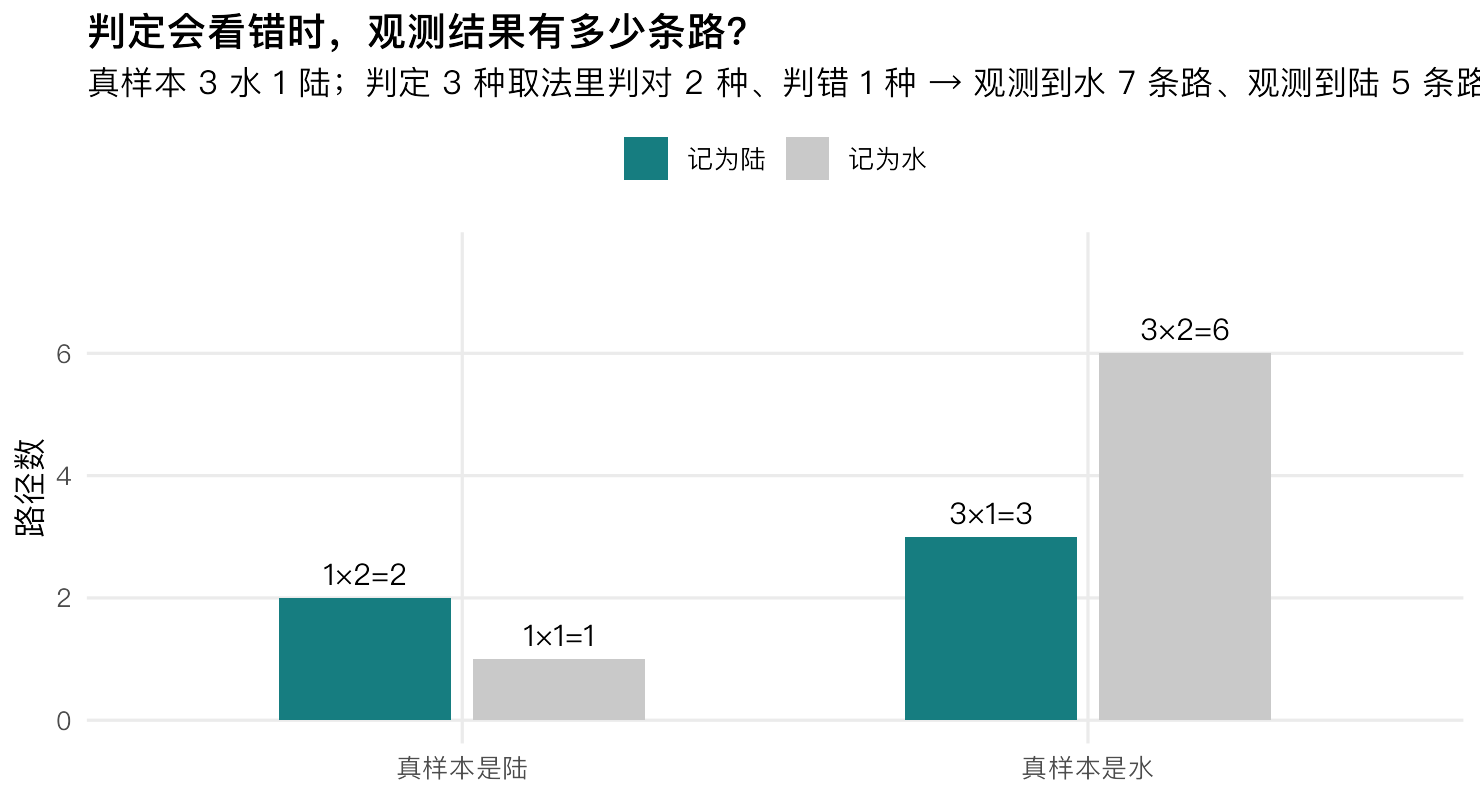
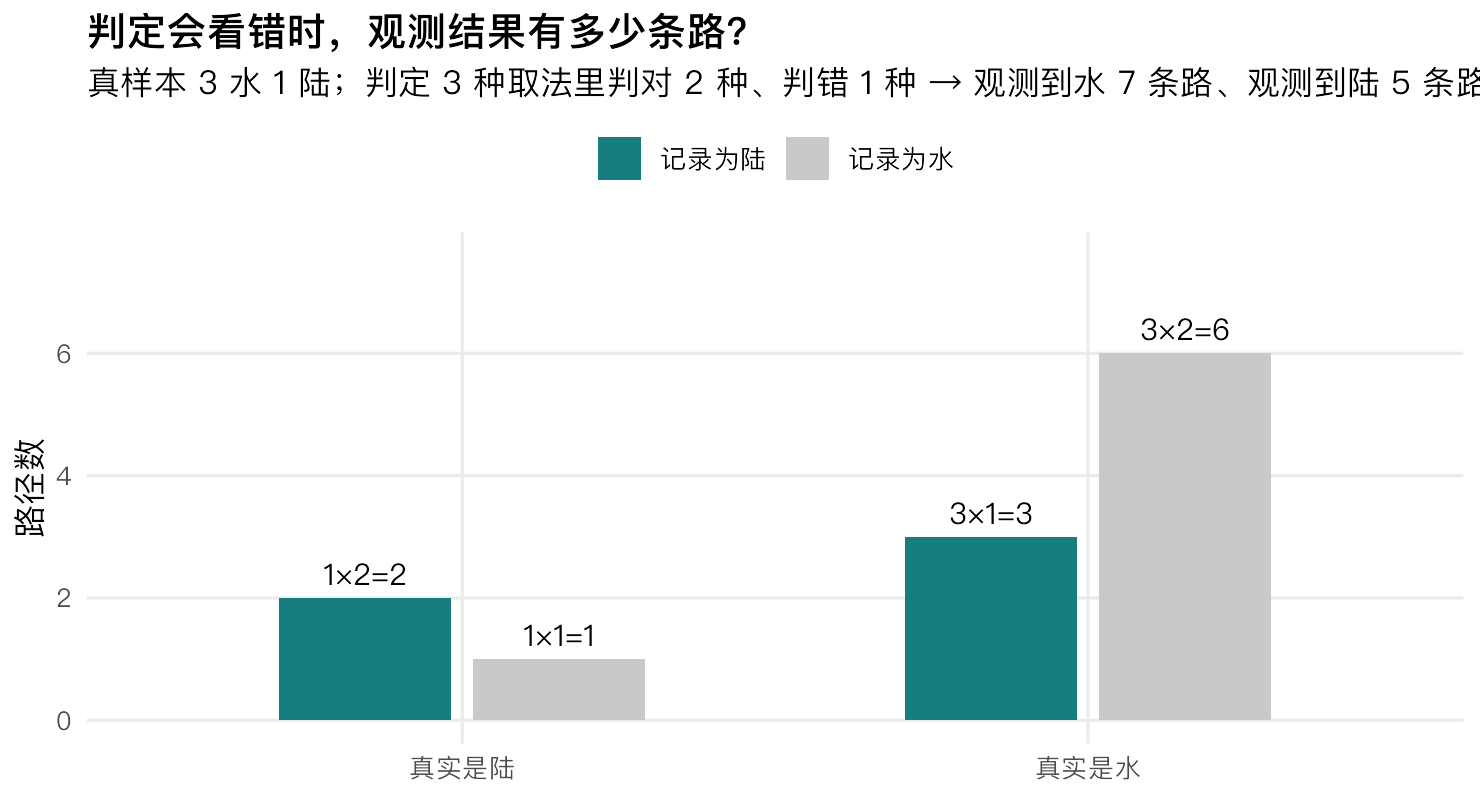
Revise Rethinking article 02 after Codex review: sequential-update fix, prediction comparison, misclassification reversal

diff --git a/rethinking/article02_counting_paths/代码/篇02_数路径.py b/rethinking/article02_counting_paths/代码/篇02_数路径.py
@@ -121,9 +121,13 @@ def logB(x, y):
 
 
 pred_next = a / (a + b)
-pred_rows = [[k, round(math.exp(math.log(math.comb(2, k)) + logB(a + k, b + 2 - k) - logB(a, b)), 6)]
+p_hat = pred_next          # 对照：把后验均值当成固定 p（会丢掉后验宽度）
+pred_rows = [[k,
+              round(math.exp(math.log(math.comb(2, k)) + logB(a + k, b + 2 - k) - logB(a, b)), 6),
+              round(math.comb(2, k) * p_hat ** k * (1 - p_hat) ** (2 - k), 6)]
              for k in range(3)]
-write_csv(os.path.join(RES, "04_预测分布_python.csv"), ["未来两次里的水数", "概率"], pred_rows)
+write_csv(os.path.join(RES, "04_预测分布_python.csv"),
+          ["未来两次里的水数", "概率（整条后验）", "概率（固定均值）"], pred_rows)
 print("下一次取到水的概率 =", round(pred_next, 6), pred_rows)
 
 # ------------------------------------------------------------
@@ -132,14 +136,14 @@ print("下一次取到水的概率 =", round(pred_next, 6), pred_rows)
 true_water, true_land = 3, 1
 # 练习 2：判定取法改成 10 种（判对 9、判错 1）→ judge_correct, judge_wrong = 9, 1
 judge_correct, judge_wrong = 2, 1
-rows5 = [["真样本是水", "记为水", true_water, judge_correct, true_water * judge_correct],
-         ["真样本是水", "记为陆", true_water, judge_wrong,   true_water * judge_wrong],
-         ["真样本是陆", "记为水", true_land,  judge_wrong,   true_land * judge_wrong],
-         ["真样本是陆", "记为陆", true_land,  judge_correct, true_land * judge_correct]]
+rows5 = [["真实是水", "记录为水", true_water, judge_correct, true_water * judge_correct],
+         ["真实是水", "记录为陆", true_water, judge_wrong,   true_water * judge_wrong],
+         ["真实是陆", "记录为水", true_land,  judge_wrong,   true_land * judge_wrong],
+         ["真实是陆", "记录为陆", true_land,  judge_correct, true_land * judge_correct]]
 write_csv(os.path.join(RES, "05_误分类路径计数_python.csv"),
           ["来源", "判定结果", "真样本数", "每次判定的取法", "路径数"], rows5)
-ways_obs_water = sum(r[4] for r in rows5 if r[1] == "记为水")
-ways_obs_land = sum(r[4] for r in rows5 if r[1] == "记为陆")
+ways_obs_water = sum(r[4] for r in rows5 if r[1] == "记录为水")
+ways_obs_land = sum(r[4] for r in rows5 if r[1] == "记录为陆")
 print(f"观测到水 = 6 + 1 = {ways_obs_water}；观测到陆 = 3 + 2 = {ways_obs_land}；合计 = {ways_obs_water + ways_obs_land}")
 
 # ============================================================

diff --git a/rethinking/article02_counting_paths/代码/篇02_数路径.m b/rethinking/article02_counting_paths/代码/篇02_数路径.m
@@ -85,13 +85,15 @@ fprintf('解析后验 Beta(%d,%d): %s\n', a, b, strjoin(cellfun(@numFmt, num2cel
 predNext = a / (a + b);
 logB = @(x, y) gammaln(x) + gammaln(y) - gammaln(x + y);
 pred2 = zeros(3, 1);
+pred2fix = zeros(3, 1);            % 对照：把后验均值当成固定 p
 for k = 0:2
     pred2(k+1) = exp(log(nchoosek(2, k)) + logB(a + k, b + 2 - k) - logB(a, b));
+    pred2fix(k+1) = nchoosek(2, k) * predNext^k * (1 - predNext)^(2 - k);
 end
 fid = fopen(fullfile(RES, '04_预测分布_matlab.csv'), 'w', 'n', 'UTF-8');
-fprintf(fid, '"未来两次里的水数","概率"\n');
+fprintf(fid, '"未来两次里的水数","概率（整条后验）","概率（固定均值）"\n');
 for k = 0:2
-    fprintf(fid, '%d,%s\n', k, numFmt(round(pred2(k+1), 6)));
+    fprintf(fid, '%d,%s,%s\n', k, numFmt(round(pred2(k+1), 6)), numFmt(round(pred2fix(k+1), 6)));
 end
 fclose(fid);
 fprintf('下一次取到水的概率 = %s，未来两次：%s\n', numFmt(round(predNext, 6)), ...
@@ -105,10 +107,10 @@ trueWater = 3; trueLand = 1;
 judge_correct = 2; judge_wrong = 1;
 fid = fopen(fullfile(RES, '05_误分类路径计数_matlab.csv'), 'w', 'n', 'UTF-8');
 fprintf(fid, '"来源","判定结果","真样本数","每次判定的取法","路径数"\n');
-fprintf(fid, '"真样本是水","记为水",%d,%d,%d\n', trueWater, judge_correct, trueWater * judge_correct);
-fprintf(fid, '"真样本是水","记为陆",%d,%d,%d\n', trueWater, judge_wrong,   trueWater * judge_wrong);
-fprintf(fid, '"真样本是陆","记为水",%d,%d,%d\n', trueLand,  judge_wrong,   trueLand * judge_wrong);
-fprintf(fid, '"真样本是陆","记为陆",%d,%d,%d\n', trueLand,  judge_correct, trueLand * judge_correct);
+fprintf(fid, '"真实是水","记录为水",%d,%d,%d\n', trueWater, judge_correct, trueWater * judge_correct);
+fprintf(fid, '"真实是水","记录为陆",%d,%d,%d\n', trueWater, judge_wrong,   trueWater * judge_wrong);
+fprintf(fid, '"真实是陆","记录为水",%d,%d,%d\n', trueLand,  judge_wrong,   trueLand * judge_wrong);
+fprintf(fid, '"真实是陆","记录为陆",%d,%d,%d\n', trueLand,  judge_correct, trueLand * judge_correct);
 fclose(fid);
 waysObsWater = trueWater * judge_correct + trueLand * judge_wrong;
 waysObsLand  = trueWater * judge_wrong + trueLand * judge_correct;

diff --git a/rethinking/article02_counting_paths/数路径_公众号稿.md b/rethinking/article02_counting_paths/数路径_公众号稿.md
@@ -1,20 +1,20 @@
-# 凭什么拿 9 次取点去说水面比例？——数路径，就是贝叶斯推断
+# 凭什么拿 9 次取点去说水面比例？——从一个四面地球仪数起
 
 > 明哥的微生物世界 · Statistical Rethinking 精读 02
 >
-> 摘要：不背公式，用一个四面地球仪，把上一篇那句「相乘再归一化」数出来。
+> 摘要：用四面地球仪把后验亲手数出来，再看"眼睛会看错"这件事怎样改变结论。
 
 大家好，我是明哥。
 
-上一篇最后留了一句话：贝叶斯推断可以看成"数路径"。这一篇就把它数出来——不写公式，只做一个动作：**数一数有多少条路，能走到你看到的那个结果。**
+在地球仪上随机取 9 个点，6 个落在水上。水面比例就是三分之二吗？只有 9 次，能知道多少，又还有多不确定？
 
-问题从最小的玩具开始。手上有一个四面的地球仪，其中可能有 0、1、2、3 或 4 面是水。连着取三次，记录到"水、陆、水"。就凭这三次，能对"这个球有几面是水"说点什么吗？
-
-能。而且不用背公式。
+上一篇留下了"数路径"三个字。今天先把球缩成四个面，用"水、陆、水"三次记录，把后验亲手数出来。等允许眼睛看错，刚被我们排除的那些候选，还会重新回来。
 
 ## 一、一个四面地球仪，为什么能算出后验？
 
-先换一个问法。别问"水面比例是 0.75 的概率有多大"，改问：**如果水面比例真是 0.75，有多少条路能走出我看到的这个结果？**
+先约定模型：**每次取点相互独立，四个面被取到的机会相同，水陆不会认错，而且看数据之前五个候选各占同样的权重。**
+
+现在换个问法。别问"水面比例是 0.75 的概率有多大"，改问：**如果水面比例真是 0.75，有多少条路能走出我看到的这个结果？**
 
 四面的球，水面占 3 面、陆面占 1 面。取到水，有 3 种取法；取到陆，有 1 种取法。三次观测是水、陆、水，路径数就是这三个数乘起来：
 
@@ -30,143 +30,151 @@
 | 0.75 | 3 | 1 | 3 × 1 × 3 = 9 |
 | 1 | 4 | 0 | 4 × 0 × 4 = 0 |
 
-五个候选加起来是 20 条路。于是**每个候选的后验概率，就是它自己的路径数除以 20**：0、0.15、0.40、0.45、0。
+五个候选加起来是 20 条路。**这个 20，是"五个候选下与观测相容的路径数之和"**（每个候选完整的三次取点路径其实都是 64 条，这一点下一节会说清）。在前面那几条约定之下，后验概率就是各自的路径数除以 20：0、0.15、0.40、0.45、0。
 
 ![图1｜分岔路径计数](文章配图/01-分岔路径计数.png)
 
-*图1｜左：每个候选比例下，三次观测各自有几种取法，乘起来就是路径数；右：路径数除以 20 得到后验。原来有 5 个候选，比例 0 和 1 的路径数是 0 条。用配套脚本 篇02_数路径.R 生成。*
+*图1｜左：每个候选比例下，三次观测各自有几种取法，乘起来就是路径数；右：路径数除以 20 得到后验。前提是每次独立取点、四面等可能、水陆不会认错、五个候选先验等权。*
 
-有三件事值得停下来看一眼。
+两个候选的后验是 0。**在不会误判的模型里**，全水的球不可能记录出"陆"，全陆的球不可能记录出"水"——它们没有一条路能走到这次的观测。这句话先记住，第六节会回来找它。
 
-**第一，"数路径"不需要任何术语。** 它就是乘法，而且是整数乘法。
+## 二、为什么数完路径，还要乘先验、再归一化？
 
-**第二，比例 0 和 1 的路径数是 0。** 这不是公式把它们判了死刑，是数出来它们走不到：全水的球不可能给出"陆"，全陆的球不可能给出"水"。
+上一篇给过一个比喻：每个候选比例拿一张"权重票"，先验决定它在看数据之前有多少票，似然决定它对这次观测有多相容。
 
-**第三，20 这个总数很关键。** 它把"路径数"变成了"后验概率"——分母是所有候选的路径总和。这一步叫归一化，上一篇讲过的那个动作，在这里变成了"除以 20"。
+这一节把两件事对上：
 
-## 二、为什么「数路径」和「相乘再归一化」是同一件事？
+- **先验**给候选一个起始权重。这一篇用平坦先验，相当于五个候选一开始一样重。
+- **似然**告诉我们：在这个候选成立时，出现所见数据的概率有多大。**等可能的路径可以直接数；不等可能的路径，就要按概率加权。**
 
-上一篇给过一个比喻：每个候选比例拿一张"权重票"，先验决定它在看数据之前有多少票，似然决定它对这次观测有多相容，两者相乘，再除以总和。
-
-把这个比喻和"数路径"对起来看，就是两句话：
-
-- **先验，是看数据之前每个候选有多少条路。** 这一篇用平坦先验，相当于一开始给每个候选同样多的路。
-- **数据，是这些路里有多少条能走到你看到的结果。** 这里就是"水陆水"这个序列。
-
-两者相乘，得到的就是第一节那张表里的数字；除以总和，得到后验。写下来还是上一篇那条式子：
+第一次数出来的"9"是整数计数，公式里的"先验 × 似然"是权重——两者在本例中**只差一个对五个候选都相同的常数**：每个候选都有 64 条等可能的三次取点路径（4 × 4 × 4），五个候选的先验权重又相同。这两个共同因子在归一化时会被约掉，所以最后要比较的确实就是与观测相容的路径数。写下来还是上一篇那条式子：
 
 $$
 候选 i 的后验权重 = \frac{先验权重_i \times P(观测 \mid p_i)}{\sum_j 先验权重_j \times P(观测 \mid p_j)}
 $$
 
-所以那句"相乘再归一化"，说白了就是**数路径、再除以总路数**。凡是能写成"路径数"的问题，都可以这么算——包括后面几节几乎看不出在"数路径"的那种。
+**能数条数的时候就数条数，不能数的时候就按概率加权**——这就是"相乘再归一化"在计数语言里的样子。
 
-## 三、观测变多，路径怎么筛？
+## 三、没有候选被淘汰，后验还会变吗？
 
-第一节的例子只有三个观测。多来几个观测，路径会怎么变？
+前面三个观测，两次是水、一次是陆。把观测顺序调一下：先看"水"，再看"陆"，这时候五个候选的路径数是 0、3、4、3、0。
 
-办法很直接：**每来一个观测，就把与它不一致的路径全部删掉。**
+再看到第三个观测"水"，路径数变成 0、3、8、9、0。
 
-回看图 1 左边那三列。一开始五个候选比例都"在场"，各有自己的路。看到第一个观测是"水"：水面数为 0 的那个候选，一条路都走不出来，删掉。看见第二个观测是"陆"：水面数为 4 的那个候选也走不出来（它没有陆面），删掉。第三个观测又是"水"，剩下的三个候选各自按自己的水面数再乘一次。
+注意这里发生的事：**中间那三个候选一条路都没被淘汰，可是它们的相对支持已经大不一样了**——从 3、4、3 变成 3、8、9，比例是 0.5 的那个候选从领先变成了落后。
 
-最后剩下的路径数就是 0、3、8、9、0——0 的两条路被剪干净了。
+所以数据做的不止"把不可能的路划掉"。它既能让某些候选直接归零，也能**在仍然可能的候选之间重新分配权重**。上一节说"数完路径还要乘先验再归一化"，归一化这一步就是重新分配。
 
-麦氏给这个图起名叫 **the garden of forking data（分岔数据的花园）**：所有可能的世界在开头就分好了岔，数据的作用是**不断剪掉走不通的那些岔路**，最后剩下的路有多宽，就是每个候选的比例。
+麦氏给这张图起的名字是 **the garden of forking data（分岔数据的花园）**：候选在开头就分好了岔，数据不断剪掉走不通的岔路，同时调整剩下那些路的宽窄。
 
-这个说法比"更新信念"具体得多：**你不是在改变想法，你是在把不可能的路划掉。**
+严格说，剩下的**路径数占总数的比例**，才是各候选的后验概率——别把它和"候选的水面比例"混起来。
 
 ## 四、比例能取连续值，怎么数？
 
 上面的玩具只有五个候选比例，真问题里水面比例是 0 到 1 之间的连续值。路数没法一个整数一个整数地数了，怎么办？
 
-把"数路径"换成"算每个候选比例的可能性"，就得到上一篇那张 20 点网格。教材第 2 章的四行代码正是这件事：
+办法是：**在网格上算出每个候选的似然与后验权重**，也就是上一篇那张 20 点网格。按教材第 2 章的网格近似方法，可以写成下面四行：
 
 ```
 p_grid     <- seq(0, 1, length.out = 20)   # 20 个候选比例
 prior      <- rep(1, 20)                   # 每个候选先给同样的权重
-likelihood <- dbinom(6, size = 9, prob = p_grid)   # 这个候选能走出我这 9 次观测的相对可能性
+likelihood <- dbinom(6, size = 9, prob = p_grid)   # 这个候选成立时出现 9 次里 6 次水的概率
 posterior  <- likelihood * prior / sum(likelihood * prior)
 ```
 
-四行，和第一节的"乘起来、再除以总数"是同一件事，只是"路径数"换成了"可能性"，除法换成了除以总和。观测仍用上一篇那组：**9 次里 6 次落在水上**。
+观测仍用开头那组：**9 次里 6 次落在水上**。
+
+这里有一个小跳步值得点一下。第一节记的是有顺序的"水、陆、水"，这四行代码只统计"6 次是水"、不管顺序。在各次独立、同一个水面比例的模型下，二项似然比某个指定序列的概率多出一个组合数；**这个组合数对所有候选都一样**，归一化时同样被约掉，所以两者的参数后验相同。
 
 ![图2｜先验、似然、后验](文章配图/02-先验似然后验.png)
 
-*图2｜横轴是 20 个候选水面比例。灰线是各候选的先验权重（平坦先验，人人一样）；红色虚线是为便于比较而归一化后的似然权重；青线是后验。平坦先验下，归一化后的似然与后验重合。用配套脚本生成。*
+*图2｜横轴是 20 个候选水面比例。灰线是各候选的先验权重（平坦先验，人人一样）；红色虚线是为便于比较而归一化后的似然权重；青线是后验。平坦先验下，归一化后的似然与后验重合。*
 
-那先验到底在干什么？换一个先验就看出来了。下面三种先验，数据完全不变：
+那先验到底在干什么？换一个先验就看出来了。**以下三个数都是同一组 20 点网格上的结果**，数据完全不变：
 
-- **平坦先验**：每个候选一视同仁 → 后验均值 0.636382，最大点 0.684211；
-- **exp(-5×|p-0.5|)**：把权重压在 0.5 附近 → 后验均值 0.586171，最大点被拉到 0.526316；
-- **p<0.5 时权重为 0**：只认 0.5 以上的比例 → 后验均值 0.681388，最大点 0.684211。
+| 先验 | 后验均值（约） | 后验最大的网格点 |
+|---|---|---|
+| 平坦先验（每个候选一样重） | 0.636 | 0.684211 |
+| exp(-5×\|p-0.5\|)（压在 0.5 附近） | 0.586 | 0.526316 |
+| p<0.5 时权重为 0（只认 0.5 以上） | 0.681 | 0.684211 |
 
 ![图3｜换先验后的后验](文章配图/03-换先验后的后验.png)
 
-*图3｜同一份观测（9 次里 6 次是水），三种先验给出的三条后验。灰色是平坦先验，青色是压在 0.5 附近的先验，红色是只认 0.5 以上的先验。用配套脚本生成。*
+*图3｜同一份观测（9 次里 6 次是水），三种先验给出的三条后验。灰：平坦先验；青：压在 0.5 附近的先验；红：只认 0.5 以上的先验。用配套脚本生成。*
 
-**先验不是作弊，它就是你动手之前对"哪些比例更有可能"的既有判断。** 它被数据拉走多远，取决于数据提供了多少条路——这也是上一篇"样本量越大、先验影响越小"那句话的来历。
+**先验是模型的一部分，用来表达已有知识、约束或暂定假设。用它不是作弊**；关键是说明依据，并检查合理的其他先验会不会改变结论。
 
-顺带一个可以核对的小结论。这一组观测的解析后验是 Beta(7, 4)：均值 0.636364、众数 0.666667、标准差 0.138866，89% 等尾区间 0.400320 到 0.845431。20 点网格给出的均值是 0.636382，与解析值只差 0.000018。**网格近似差多少是算出来的，不是估出来的**——这一点在下一篇还会用到。
+第三种先验还给出一个硬边界：它把 p<0.5 的区域权重设成 0，**那么无论来多少数据，这些候选的后验都会是 0**。数据能重新分配权重，却救不回被先验排除掉的区域。反过来，在先验没有排除数据支持的区域时，更多**独立且携带信息**的观测通常会减弱先验对后验的影响。
+
+"独立"这两个字值得在实验里多想一想。同一份样品多测几次，能帮我们了解测量波动，却不算增加了同样多的独立生物学样本；如果批次之间有差异，多设几个批次内重复和多取几个独立批次，回答的也不是同一个问题。
+
+顺带一个可以核对的结论。回到"连续参数上均匀先验、独立取点、不会误判"的二项模型，6 次水、3 次陆对应的解析后验是 Beta(7, 4)，均值 0.636364；而 20 点网格给出的均值是 0.636382，两者相差约 0.00001873。
+
+**因为有解析结果，这个误差我们才能直接核对**——但要注意，核对的只是均值。同一组网格的 89% 等尾区间下端是 0.4211，解析值是 0.400320，差约 0.0207。**均值很准，不代表 20 点网格处处都准。**
 
 ## 五、有了后验，能回答什么问题？
 
-教材第 2 章用四个"没有"总结这一章，每一条都反直觉：
+McElreath 在第 02 讲里用四句话提醒我们怎么读后验（课件第 78–81 页），每一句都比字面更窄：
 
-1. **没有最小样本量。** 3 次里 2 次落在水上，照样能得到后验，只是它更宽。
-2. **形状本身携带样本量信息。** 观测越多，后验越窄，这个宽度不用另外算。
-3. **没有一个点估计是"答案"。** 分布本身就是答案；报出一个均值，等于把形状丢掉只留一个数。
-4. **没有唯一正确的区间。** 等尾区间只是传达后验形状的一种方式（上一篇已经讨论过 89% 区间，这里不再展开）。
-
-第 3 条最需要练。做实验的人习惯要一个数——处理效应是几、菌多长了多少。贝叶斯会给一个数，但那只是分布的摘要；**真正携带信息的是整条曲线**。
+1. **没有统一的起算样本量门槛。** 本例里 3 次观测也能更新后验；但要达到研究所需的精度，仍要规划样本量。
+2. **后验形状反映数据提供的信息。** 相同模型与先验下，2 水 1 陆也有后验，只是比 6 水 3 陆的那条更分散；需要报告宽度时，仍可计算标准差或区间。
+3. **点估计只是摘要。** 均值、中位数、众数回答不同的概括需求，都不能替代整个后验。
+4. **没有适合所有任务的唯一区间。** 报区间要说明覆盖概率和构造方式（例如 89% 等尾区间）。
 
 后验还有一个直接用途：往下预测。
 
 ![图4｜从后验到预测](文章配图/04-从后验到预测.png)
 
-*图4｜左：9 次里 6 次是水时的后验 Beta(7, 4)，虚线处是均值 0.636。右：据此预测"未来两次取点里有几次是水"的概率：0 次的概率 0.152，1 次 0.424，2 次 0.424。用配套脚本生成。*
+*图4｜左：9 次里 6 次是水时的后验 Beta(7, 4)，虚线处是均值 0.636。右：据此预测"未来两次取点里有几次是水"的概率——深色用整条后验，浅色把后验均值当成固定 p。用配套脚本生成。*
 
-**下一次取到水的概率是 0.636364**（就是后验均值）；未来两次取点，出现 0、1、2 次水的概率分别是 0.151515、0.424242、0.424242。注意：这里没有挑一个"最可能的比例"去代，而是把整条后验都用上了——每种可能的比例按它自己的后验概率各出一次力。**不确定性就这样一路传到了预测里。**
+**下一次取到水的概率是 0.636364**，正好等于后验均值。这不是巧合：只预测一次时，用平均值代入就能得到同一个答案。
 
-## 六、测量本身有误差怎么办？
+但预测两次就不一样了。未来两次里出现 0、1、2 次水的概率，用整条后验算是 0.151515、0.424242、0.424242；**把后验均值当成固定 p 去算是 0.132231、0.462810、0.404959**。两次都取到水这一项，两者差了将近 0.02。
 
-最后一节说一个躲不开的问题：如果判定本身会看错呢？
+差别出在哪？要算的是"两次都是水"的概率，也就是 p² 的平均值——**不能先把 p 平均掉再平方**。整条曲线的宽度就这样一路传进了预测里，这也是为什么只报一个点估计会丢掉预测需要的不确定性信息。
 
-假设每次判定只有 3 种取法，其中 2 种判对、1 种判错——也就是 1/3 的概率把水看成陆、或把陆看成水。真实的样本是 3 个水、1 个陆。现在我想知道：观测到"水"这件事，有多少条路？
+## 六、如果水陆会认错，前面的排除还成立吗？
 
-- 真样本是水，判对了，记为水：3 个样本 × 2 种取法 = 6 条路；
-- 真样本是陆，判错了，也记为水：1 个样本 × 1 种取法 = 1 条路。
+回到第一节那两个被归零的候选：全水的球、全陆的球。它们真的不可能产生"水、陆、水"吗？
 
-合计 7 条路。同理，观测到"陆"有 3 + 2 = 5 条路；7 + 5 = 12，正好等于 4 个样本 × 3 种取法。
+取决于你怎么看测量。**把判定过程表示成三个等可能的分支：两个判对、一个判错**，也就是水被错认成陆、陆被错认成水的概率都是 1/3。这时，观测到"水"这件事就不再只有一条来路：
+
+- 先固定一个候选：四个等可能取到的面里，三个是水、一个是陆。真实为水、判对记录成水：3 个样本 × 2 种取法 = 6 条路；
+- 真实为陆、判错也记录成水：1 个样本 × 1 种取法 = 1 条路。
+
+合计 7 条路。同理，记录到"陆"有 3 + 2 = 5 条路；7 + 5 = 12，正好等于 4 个样本 × 3 种取法。**在这个候选下，记录到水的概率是 7/12。**
 
 ![图5｜误分类路径计数](文章配图/05-误分类路径计数.png)
 
-*图5｜真样本 3 水 1 陆，每次判定 3 种取法（判对 2 种、判错 1 种）。观测到"水"共 7 条路（6 + 1），观测到"陆"共 5 条路（3 + 2）。用配套脚本生成。*
+*图5｜真实 3 水 1 陆，判定分三个等可能分支（两个判对、一个判错）。记录到"水"共 7 条路（6 + 1），记录到"陆"共 5 条路（3 + 2）。用配套脚本生成。*
 
-数完路径，后验就能照旧算出来——只不过这一步要写进生成模型里，而**不是**事后再给结果打个折扣。
+数完路径，还差一步才能得到后验：**对每个候选比例都这样算出"记录到水"和"记录到陆"的概率，再按实际观测构造似然，乘先验、归一化。**（本篇只数到路径这一步，完整的误判后验留给教材。）
 
-这就是上一篇那句话的具体版本：**先写清数据是怎么来的。** 判定会出错，就把它写进"数据怎么产生"的那一层；写进去之后，"数路径"这个动作一点没变，只是路变多了。
+而这一步带来的反转，正是第一节那句话的答案：**允许误判之后，全水的球和全陆的球也能产生"水、陆、水"了。数据一点没变，关于测量过程的假设变了，结论就跟着变了。**
+
+这就是"科学先于统计"最具体的一次演示：同样的数字，能不能用、怎么解释，取决于你先把数据怎么产生的那一层写清楚。要补一句边界：这里把误判率当成已知；真实实验里，它通常需要校准数据来支持（教材对测量误差的系统讨论在第 15 章）。
 
 ## 七、动手：先数，再跑
 
 两个小实验，都写在配套脚本里，建议先在纸上数完再跑。
 
-1. **把四面地球仪换成六面。** 也就是让水面数取 0 到 6，其余不变，先自己算出三个观测（水、陆、水）各自的路径数，再跑脚本对照。（R 脚本里搜 `face_water`，Python、MATLAB 里同名。）
-2. **把误判概率从 1/3 改成 1/10。** 也就是判定有 10 种取法里判对 9 种、判错 1 种。观测到"水"的路径数会变成 3×9 + 1×1 = 28 条。算完之后想想：后验会被这种"更准的尺子"往哪边推？
+1. **把四面地球仪换成六面。** 也就是把脚本里的 `n_faces <- 4` 改成 `n_faces <- 6`（Python、MATLAB 里同名）。先自己算出三次观测（水、陆、水）各自的路径数，再跑脚本对照。
+2. **把误判率从 1/3 改成 1/10。** 也就是判定分成 10 个等可能分支、判对 9 个、判错 1 个。这时观测到"水"的路径数是 3×9 + 1×1 = 28 条。想两个问题：总路径数变成多少了？记录为水的概率（原来的 7/12，还是现在的 28/40）哪一个更接近真实的水面比例 3/4？为什么不能直接拿 7 条和 28 条比大小？
 
 ## 结尾
 
-一句可以带走的话：**别急着问概率，先数一数有多少条路能走到你看到的结果——贝叶斯推断就是这条路数的分配。**
+一句可以带走的话：**先写清数据是怎样产生的，再比较各个候选能多大概率产生它。**
 
-这里是"明哥的微生物世界"。这个系列按 McElreath 公开课 2023 版的顺序走，一讲一篇，从基础到高级，共 20 篇。下一篇讲这一章真正的"怎么做"：从后验出发把整条不确定性的链条一路推到预测，以及为什么"点估计"会把信息丢掉一大半。
+这里是"明哥的微生物世界"。这个系列按 McElreath 公开课 2023 版的顺序走，一讲一篇，从基础到高级，共 20 篇。下一篇展开怎么用后验去算预测、又怎么检查这些预测靠不靠得住。
 
 ---
 
 ### 教材与资料
 
-- McElreath, R. (2020). *Statistical Rethinking: A Bayesian Course with Examples in R and Stan*（第 2 版）. CRC Press. 本篇对应第 2 章 Small Worlds and Large Worlds（分岔数据的花园、网格近似、四边地球仪），并顺带用了第 3 章关于后验分布的少量内容。
+- McElreath, R. (2020). *Statistical Rethinking: A Bayesian Course with Examples in R and Stan*（第 2 版）. CRC Press. 本篇对应第 2 章 Small Worlds and Large Worlds；测量误差的系统讨论在第 15 章，本篇第六节只按第 02 讲的附加内容作入门。
+- 2023 年第 02 讲课件（Garden of Forking Data）：<https://speakerdeck.com/rmcelreath/statistical-rethinking-2023-lecture-02>
 - 中文版：《统计反思：用R和Stan例解贝叶斯方法》，林荟 译，机械工业出版社，2019 年。**中文版译自英文第 1 版，章节顺序与代码和第 2 版有出入，本系列按第 2 版讲。**
-- 想完全用 tidyverse 语法和 brms 复现书里的代码，看这本配套书：Kurz, A. S. (2023). *Statistical Rethinking with brms, ggplot2, and the tidyverse: Second Edition*. <https://bookdown.org/content/4857/>。
-- 运行环境：R 用 RStudio，Python 用 Spyder。
+- 想用 tidyverse 语法和 brms 走一遍书里的代码，可参考 Kurz, A. S. (2023). *Statistical Rethinking with brms, ggplot2, and the tidyverse: Second Edition*. <https://bookdown.org/content/4857/>。
 - 本篇三个语言的脚本与运行结果放在公开仓库：<https://github.com/fuyuming/statistics-classroom/tree/main/rethinking/article02_counting_paths>（仓库 ZIP：<https://github.com/fuyuming/statistics-classroom/archive/refs/heads/main.zip>）。三份输出逐位一致，对照记录见该目录的 VALIDATION.md。
 
-*配图由配套脚本生成。本篇所有数字都是确定性计算（整数路径计数、网格、解析 Beta、beta-二项预测），三个语言逐位一致，没有随机模拟。*
+*配图由配套脚本生成。本篇所有数字都是确定性计算（整数路径计数、20 点网格、解析 Beta、beta-二项预测），三个语言逐位一致，没有随机模拟。*

diff --git a/rethinking/article02_counting_paths/评审与修订记录.md b/rethinking/article02_counting_paths/评审与修订记录.md
@@ -1,0 +1,64 @@
+# 精读 02｜评审与修订记录
+
+时间：2026-10-01　稿件：`数路径_公众号稿_v1_评阅前.md`（初稿）→ **`数路径_公众号稿.md`（定稿）**
+评审：Codex（GPT-5.5，Pangolin SOCKS5，`codex exec`，原始意见 `/tmp/rethinking02_review_out.md`，30044 字节 / 540 行）
+提示词：`/tmp/rethinking02_review_prompt.txt`（四组问题：科学性／深度／吸引力／删留，要求抄原句并给可直接照改的替换）
+
+## 一、Codex 的数字，我先复算
+
+| Codex 的说法 | 我的复算 | 结论 |
+|---|---|---|
+| 网格均值与解析均值相差 0.000018725452139（写"0.000018"不准确） | 网格未舍入 0.636382361815775；解析 7/11 = 0.636363636363636；差 0.000018725452139（六位小数为 0.000019） | **成立** |
+| 均值准不代表网格处处准：区间下端 0.4211 对解析 0.40032，差约 0.0208 | 0.4210526316 − 0.4003198936 = 0.0207326 | **成立**（差约 0.0207） |
+| 第二次观测后三个候选是 3、4、3，第三次后是 3、8、9——没有候选被淘汰，支持度却变了 | k(4−k) = 0,3,4,3,0；k(4−k)k = 0,3,8,9,0 | **成立**（这条最关键） |
+| 固定均值预测：0.132231 / 0.462810 / 0.404959 | 同为 0.132231 / 0.462810 / 0.404959 | **成立** |
+| 练习 2 应问 7/12 与 28/40；总路径从 12 变成 40 | 7/12 = 0.583333、28/40 = 0.700000，真实比例 3/4 = 0.75 → 28/40 更接近；4×10 = 40 | **成立** |
+
+## 二、科学性：逐条处理（11 条）
+
+| # | Codex 指出 | 处理 |
+|---|---|---|
+| 1 | "数路径"与"相乘再归一化"不能跳过"等可能"与"加权"；整数计数与权重只差一个共同常数 | **已改**：第二节补出 64 条等可能路径与五候选等权两个共同因子在归一化时被约掉；"数据"改成"似然"；节标题改成"为什么数完路径，还要乘先验、再归一化？" |
+| 2 | 第一节必须提前交代模型（独立、四面等可能、不会认错、五候选等先验）；20 是"与观测相容的路径数之和"，不是全部路径 | **已改**：第一节开头就写四条约定；正文点明 20 的含义与"每个候选完整路径都是 64 条" |
+| 3 | **第三节把更新写成纯粹"排除不可能"是概念错误**："你不是在改变想法，你是在把不可能的路划掉"忽略相容程度的变化 | **已改（本轮最重要）**：改用 3、4、3 → 3、8、9 说明"没有候选被淘汰，相对支持照样变"；删掉那句；"0 的两条路"改成"没有与观测相容的路径"；"候选的比例"改成"路径数占总数的比例" |
+| 4 | 有序序列（WLW）切到二项计数（6/9）漏了一座桥；"教材第 2 章的四行代码正是这件事"暗示逐字摘录 | **已改**：补一句"二项似然多出的组合数对所有候选都一样，归一化时被约掉"；改成"按教材第 2 章的网格近似方法，可以写成下面四行" |
+| 5 | "先验不是作弊"论证偏窄；没讲零权重的后果 | **已改**：改成"先验是模型的一部分，用来表达已有知识、约束或暂定假设……关键是说明依据"；补"零权重区域数据救不回来"的硬边界；"样本量越大先验影响越小"改成"更多独立且携带信息的观测通常会减弱先验影响"，并接到实验设计（技术重复 vs 独立生物学重复、批次） |
+| 6 | 0.000018 是舍入假象；"网格误差是算出来的，不是估出来的"说满了（确定性算法也有近似误差；且只核对了均值） | **已改**：写"相差约 0.00001873"；补"因为有解析结果才能核对"，并给出区间端点差 0.0207 说明"均值准不代表处处准"；解析段先声明"回到均匀先验、独立取点、不会认错的二项模型" |
+| 7 | 四条"没有"的出处应是第 02 讲而不是"教材第 2 章总结"；每条都要收紧（尤其"没有最小样本量"易被误读为不必规划重复数） | **已改**：改成"McElreath 在第 02 讲里用四句话提醒我们怎么读后验（课件第 78–81 页）"，四条逐条改写 |
+| 8 | 后验均值 = 下次取水的概率**没有混淆**，而且应该讲透：两次预测要平均 p²，不能先平均 p 再平方 | **已改**：补整条后验与固定均值的对照（0.424242 vs 0.404959），并解释差别来源 |
+| 9 | 第六节"判定的取法"不自然；算完 7 条路还没有后验；误判率已假定为已知 | **已改**：改成"三个等可能的分支，两个判对、一个判错"；补"先固定一个候选"；补 7/12；补"对每个候选都这样算，再构造似然、乘先验、归一化"；补"误判率需校准数据支持"与教材第 15 章定位 |
+| 10 | 练习 2 的问法没有确定答案（7 条与 28 条不能直接比，总数也变了） | **已改**：改成"总路径数变成多少？7/12 与 28/40 哪个更接近 3/4？为什么不能只比 7 和 28"；练习 1 明写改 `n_faces` |
+| 11 | 两处过量承诺："不写公式"（后文有公式）、"丢掉一大半信息"（没有依据）；"处理效应是几"不宜出现在描述性篇章 | **已改**：分别改为"先不背公式，从数路径开始""会丢掉预测需要的不确定性信息""阳性比例是多少" |
+
+## 三、深度：采纳的三处（总字数基本不增）
+
+1. **第六节回扣第一节**（Codex 称为全文最有力量的转折）：允许误判后，第一节被排除的全水、全陆候选重新能产生"水、陆、水"——数据没变，关于测量过程的假设变了，结论就变了。
+2. **第四节把先验接到实验设计**：模型认可的"更多数据"指独立且携带信息的观测；技术重复不等于独立生物学样本；批次内重复与独立批次回答的不是同一个问题。
+3. **第五节用两次预测证明为什么要保留整条后验**：0.424242 对 0.404959（图 4 同步加了"固定后验均值"的浅色柱）。
+
+## 四、吸引力：Codex 的判断与我的处理
+
+- 它的批评：开头先回顾上一篇、再讲计划，读者还没产生疑问就先听教学安排；标题说"9 次"、正文从"3 次"讲起；副题"数路径，就是贝叶斯推断"把需要条件的结论提前喊满。
+- **已改**：开头改成从"9 个点里 6 个在水上，水面比例就是三分之二吗"切入，再接"把球缩成四个面、用三次记录亲手数"，末句留悬念（"等允许眼睛看错，刚被我们排除的那些候选，还会重新回来"）。
+- 副题从"数路径，就是贝叶斯推断"改成"**从一个四面地球仪数起**"。
+- Codex 推荐标题 A：`9 次里 6 次是水，水面比例就是三分之二吗？——从数路径理解贝叶斯`；保留原题的版本 B：`只取了 9 次，凭什么推断整个球？——从数路径到贝叶斯后验`。**两版都留给付总定**，现用仍是原正题＋新副题。
+- 节奏：第三节现在承担"没有淘汰也要重分配"的新任务，不再复述第一节；第四节的精确数字只留在表格与校验记录。
+
+## 五、脚本与图的连带改动（三语言同步，CSV 仍逐字节一致）
+
+1. 图 4 右侧加"固定后验均值"的浅色对照柱；`04_预测分布*.csv` 增加一列 `概率（固定均值）`。
+2. 图 5 的标签从"真样本是水／记为水"改成"**真实是水／记录为水**"（减少"真样本"歧义）；`05_误分类路径计数*.csv` 同步。
+3. 图 3 的副标题从"样本量越大，先验拉动力越小"改成"**先验若把某一片区域设成零权重，数据也救不回来**"（原句正是 Codex 指出的过度概括）。
+
+三项改动后三语言五份 CSV **整文件 md5 仍完全相同**。
+
+## 六、我没照做的
+
+- **没有把标题换成 Codex 推荐的 A/B**：标题是付总在 02 篇开工前从三个候选里定的（甲）。我只按 Codex 的意见修掉了副题的过度承诺，把 A/B 两版写在这里供他选。
+- **第五节"第 3 条最需要练"只压缩未删**：它建议删掉把篇幅让给预测反例；我保留一句，因为"点估计只是摘要"对做实验的读者是高频误区。
+
+## 七、校验
+
+- 话术密度：0.00 处/千字（3588 汉字，门槛 2.00，通过）。
+- 手机预览：h1×1 / h2×8 / h3×1 / 表格×2 / 列表×3 / 公式×1，无残留标记；预览时间戳晚于稿件。
+- 三语言五份 CSV 整文件 md5 相同；五张配图重出并逐张肉眼核对。

diff --git a/rethinking/article02_counting_paths/数路径_本次文章说明.md b/rethinking/article02_counting_paths/数路径_本次文章说明.md
@@ -4,7 +4,8 @@
 
 | 文件 | 说明 |
 |---|---|
-| `数路径_公众号稿.md` | 定稿正文《凭什么拿 9 次取点去说水面比例？——数路径，就是贝叶斯推断》 |
+| `数路径_公众号稿.md` | 定稿正文《凭什么拿 9 次取点去说水面比例？——从一个四面地球仪数起》（初稿存档 `数路径_公众号稿_v1_评阅前.md`） |
+| `评审与修订记录.md` | 送 Codex 评阅后的逐条落地记录（含复算与未采纳项） |
 | `数路径_手机预览.html` | 手机预览（由 md2html_preview.py 生成，已核对晚于稿件、无残留标记） |
 | `代码/篇02_数路径.R` / `.py` / `.m` | 三个语言的脚本，功能等价 |
 | `运行结果/01–05*.csv` | 五个确定性结果表；三语言**整文件 md5 相同** |
@@ -26,7 +27,8 @@
 | 最大点 | 0.684211／0.526316／0.684211 |
 | 解析 Beta(7,4) | 均值 0.636364、众数 0.666667、标准差 0.138866、89% 区间 0.400320–0.845431 |
 | 网格与解析之差 | 0.000018 |
-| 预测（下一次取水／未来两次的水数） | 0.636364；0.151515、0.424242、0.424242 |
+| 预测（下一次取水） | 0.636364（等于后验均值） |
+| 未来两次的水数 | 整条后验 0.151515／0.424242／0.424242；固定均值 0.132231／0.462810／0.404959 |
 | 误分类路径 | 观测到水 3×2+1×1=7；观测到陆 3×1+1×2=5；合计 12 |
 
 ## 四、练习答案（第七节，供讲解）
